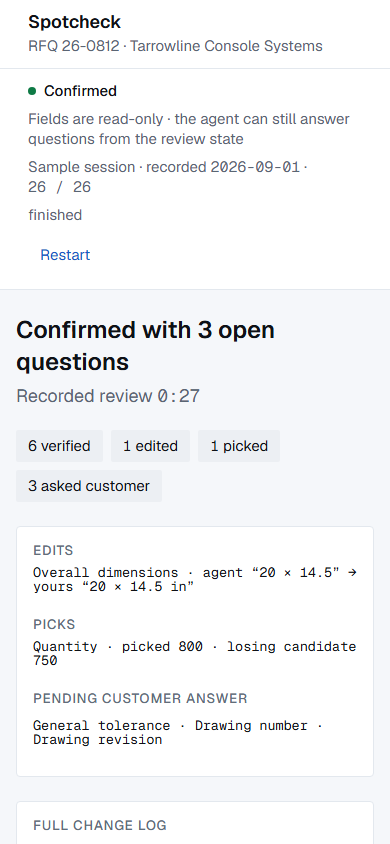
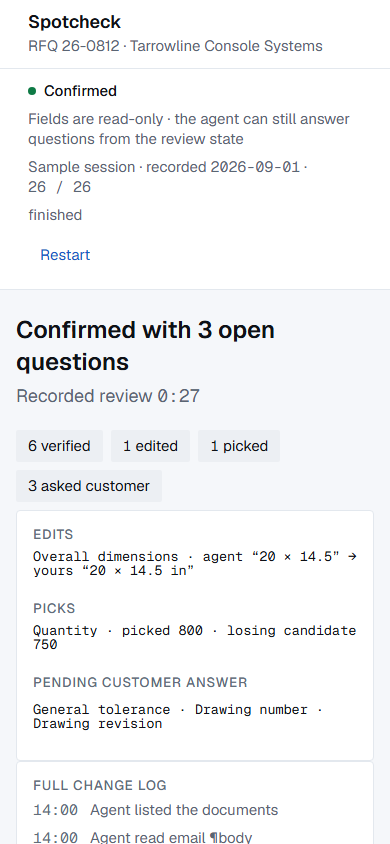
P3.1 stylesheet: one drawing for the two panes, one margin rule for the summary

diff --git a/src/styles/components.css b/src/styles/components.css
@@ -178,7 +178,6 @@
 }
 
 .icon {
-  display: inline-block;
   flex: none;
   width: var(--space-4);
   height: var(--space-4);
@@ -449,7 +448,9 @@
   }
 }
 
-.field-pane {
+/* The two panes are one drawing: a white panel on the canvas, hairlined. */
+.field-pane,
+.source-pane {
   min-width: 0;
   min-height: 0;
   display: flex;
@@ -479,7 +480,6 @@
   display: flex;
   justify-content: center;
   flex-wrap: wrap;
-  text-align: center;
 }
 
 .confirm-summary {
@@ -520,9 +520,11 @@
 }
 
 .confirm-summary__details,
+.confirm-summary__log,
+.confirm-summary__actions,
+.confirm-summary__details,
 .confirm-summary__log {
   max-width: var(--pane-field-max);
-  margin-block-start: var(--space-6);
   padding: var(--space-4);
   background-color: var(--bg-raised);
   border: var(--rule-width) solid var(--hairline);
@@ -560,22 +562,12 @@
   margin-block-start: var(--space-2);
 }
 
-.confirm-summary__actions {
-  margin-block-start: var(--space-6);
-}
-
 .source-pane {
-  min-width: 0;
-  min-height: 0;
-  display: flex;
-  flex-direction: column;
   overflow: hidden;
-  background-color: var(--bg-raised);
-  border: var(--rule-width) solid var(--hairline);
-  border-radius: var(--radius-2);
 }
 
-/* The two regions that scroll inside the shell. */
+/* The regions that scroll inside the shell. */
+.field-list,
 .summary-main,
 .source-pane__panel {
   flex: 1;
@@ -705,8 +697,6 @@
   position: fixed;
   z-index: 1;
   inset: 0;
-  display: flex;
-  flex-direction: column;
   border: 0;
   border-radius: 0;
 }
@@ -1098,9 +1088,6 @@
 
 .field-list {
   min-width: 0;
-  min-height: 0;
-  flex: 1;
-  overflow-y: auto;
 }
 
 .field-list__header {
